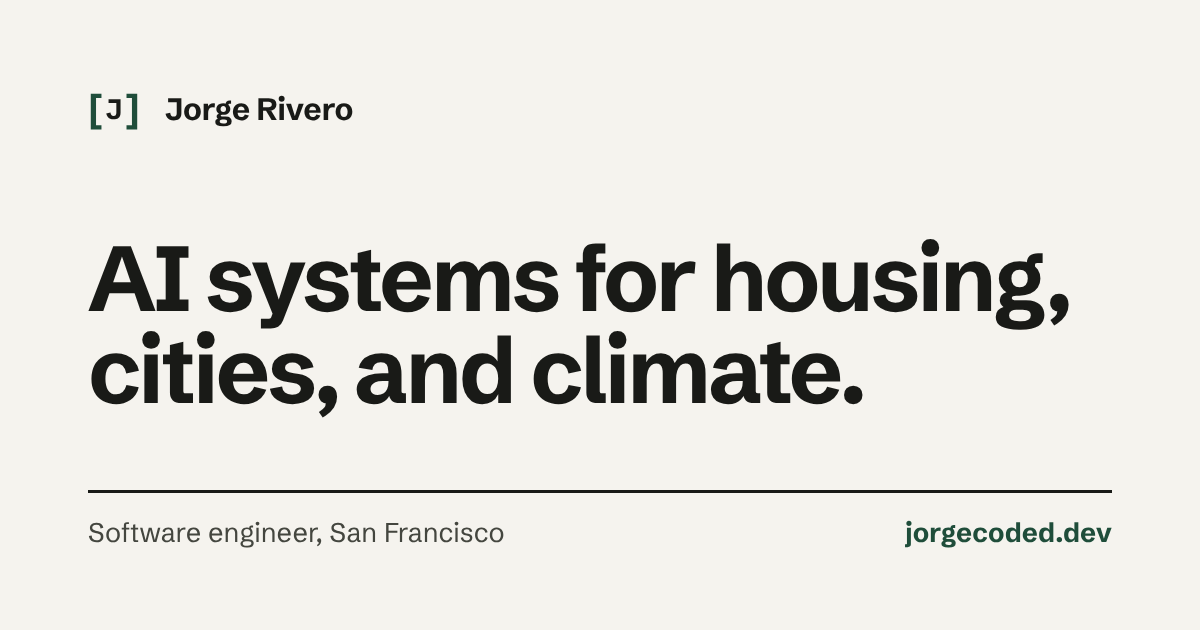
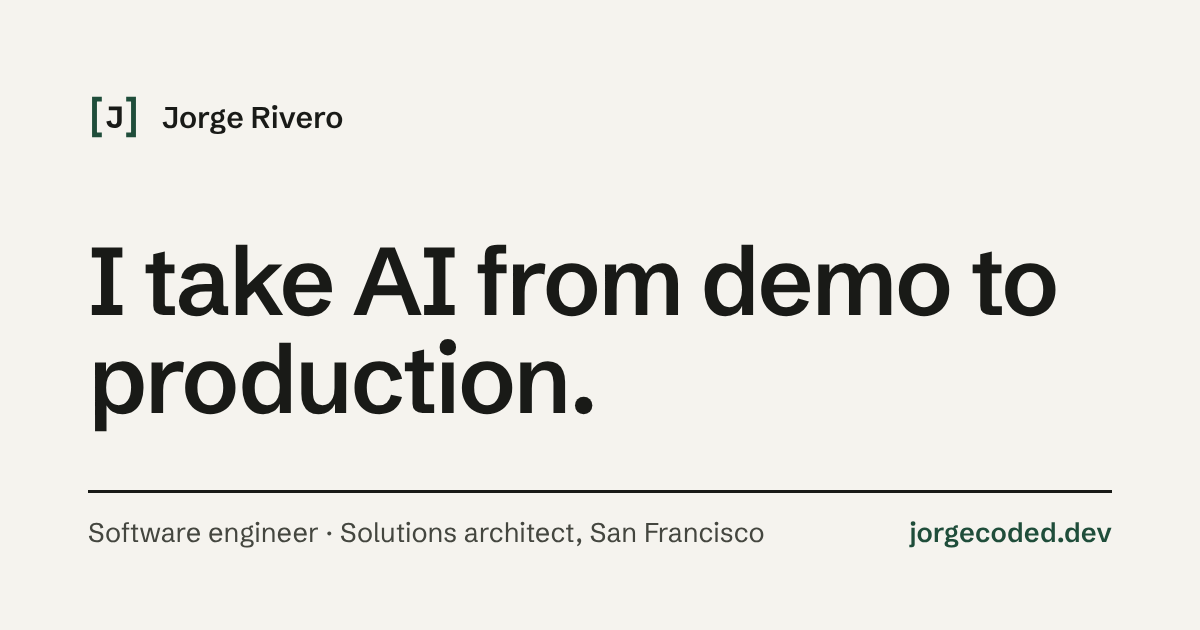
New tagline, add solutions architect title, remove Selected Work
- Headline: I take AI from demo to production.
- Role line: Software engineer · Solutions architect
- Remove Selected Work section and Work nav link
- Unlink RespondIt case studies from sitemap and Aura page (pages stay live)
- Regenerate OG image and update meta descriptions

Claude-Session: https://claude.ai/code/session_01LG74G7z5DmbHthHnbbfct1

diff --git a/public/index.html b/public/index.html
@@ -4,11 +4,11 @@
   <meta charset="utf-8">
   <meta name="viewport" content="width=device-width, initial-scale=1">
   <title>Jorge Rivero, Software Engineer in San Francisco</title>
-  <meta name="description" content="Software engineer in San Francisco building AI systems for housing, cities, and climate. Most recently a Solutions Architect at RespondIt AI.">
+  <meta name="description" content="Software engineer and solutions architect in San Francisco. I take AI from demo to production. Most recently a Solutions Architect at RespondIt AI.">
   <link rel="canonical" href="https://jorgecoded.dev/">
   <meta property="og:type" content="website">
   <meta property="og:title" content="Jorge Rivero, Software Engineer">
-  <meta property="og:description" content="Software engineer in San Francisco building AI systems for housing, cities, and climate.">
+  <meta property="og:description" content="Software engineer and solutions architect in San Francisco. I take AI from demo to production.">
   <meta property="og:url" content="https://jorgecoded.dev/">
   <meta name="twitter:card" content="summary_large_image">
   <meta name="theme-color" content="#f5f3ee" media="(prefers-color-scheme: light)">
@@ -19,7 +19,7 @@
   <meta property="og:image" content="https://jorgecoded.dev/assets/og-image.png">
   <meta property="og:image:width" content="1200">
   <meta property="og:image:height" content="630">
-  <meta property="og:image:alt" content="Jorge Rivero, software engineer: AI systems for housing, cities, and climate.">
+  <meta property="og:image:alt" content="Jorge Rivero, software engineer and solutions architect: I take AI from demo to production.">
   <link rel="preconnect" href="https://fonts.googleapis.com">
   <link rel="preconnect" href="https://fonts.gstatic.com" crossorigin>
   <link href="https://fonts.googleapis.com/css2?family=Schibsted+Grotesk:wght@400;500;600&display=swap" rel="stylesheet">
@@ -32,7 +32,6 @@
       <a class="name" href="/"><svg class="mark" viewBox="0 0 64 64" aria-hidden="true"><path d="M17 10H8v44h9M47 10h9v44h-9" stroke="var(--forest)" stroke-width="6" fill="none"/><g fill="var(--ink)"><path transform="translate(21.925 45) scale(0.01806 -0.01806)" d="M582 -26Q428 -26 318.0 20.0Q208 66 138.0 162.5Q68 259 33 409L342 475Q363 351 413.0 288.5Q463 226 573 226Q678 226 726.0 283.0Q774 340 774 452V1179H204V1440H1083V452Q1083 310 1040.5 217.0Q998 124 926.0 70.5Q854 17 765.0 -4.5Q676 -26 582 -26Z"/></g></svg><span>Jorge Rivero</span></a>
       <div class="right">
       <ul>
-        <li><a href="#work">Work</a></li>
         <li><a href="#projects">Projects</a></li>
         <li><a href="#experience">Experience</a></li>
         <li><a href="/resume.pdf">Resume</a></li>
@@ -45,8 +44,8 @@
   <main class="frame">
     <header class="hero">
       <div class="hero-inner">
-        <p class="role-line">Software engineer, San Francisco</p>
-        <h1>AI systems for housing, cities, and climate.</h1>
+        <p class="role-line">Software engineer · Solutions architect, <span style="white-space:nowrap">San Francisco</span></p>
+        <h1>I take AI from demo to production.</h1>
       </div>
       <a class="cue" href="#intro" aria-label="Scroll to more">
         <svg viewBox="0 0 24 24" aria-hidden="true"><path d="M12 4v15M5 12l7 7 7-7" fill="none" stroke="currentColor" stroke-width="1.6" stroke-linecap="round" stroke-linejoin="round"/></svg>
@@ -79,57 +78,6 @@
         </div>
       </div>
       <p class="figures-note">Each of these numbers has a source. Tap one to see it.</p>
-    </section>
-
-    <section class="band reveal" id="work" aria-labelledby="work-h">
-      <div class="rail"><h2 id="work-h">Selected work</h2></div>
-      <div class="body">
-        <ul class="exhibits">
-          <li class="exhibit">
-            <a href="/work/phantom-work-orders.html">
-              <div>
-                <h3>Phantom work orders</h3>
-                <p>An AI agent told callers their repair was booked. About 1 in 10 never reached the property system. I traced why and designed the fix.</p>
-                <p class="where">RespondIt AI, 2026</p>
-                <span class="read">Read the case study</span>
-              </div>
-              <div class="thumb" aria-hidden="true">
-                <svg viewBox="0 0 260 150">
-                  <rect class="d-box" x="95" y="8" width="70" height="26" rx="4"/>
-                  <path class="d-line" d="M130,34 V52"/>
-                  <rect class="d-box" x="95" y="52" width="70" height="26" rx="4"/>
-                  <path class="d-line" d="M130,78 V94 H62 V110"/>
-                  <path class="d-line-accent" d="M130,94 H198 V110"/>
-                  <rect class="d-box-fail" x="22" y="110" width="80" height="30" rx="4"/>
-                  <rect class="d-box-accent" x="158" y="110" width="80" height="30" rx="4"/>
-                  <path class="d-line-fail" d="M30,110 V21 H93"/>
-                </svg>
-              </div>
-            </a>
-          </li>
-          <li class="exhibit">
-            <a href="/work/guarded-reporting.html">
-              <div>
-                <h3>Reports that can't make things up</h3>
-                <p>LLM-drafted client reports started inventing figures and causes. I built a reporting system where every number has to trace back to the data.</p>
-                <p class="where">RespondIt AI, 2025 to 2026</p>
-                <span class="read">Read the case study</span>
-              </div>
-              <div class="thumb" aria-hidden="true">
-                <svg viewBox="0 0 260 150">
-                  <rect class="d-box" x="60" y="6" width="120" height="18" rx="3"/>
-                  <rect class="d-box" x="60" y="30" width="120" height="18" rx="3"/>
-                  <rect class="d-box" x="60" y="54" width="120" height="18" rx="3"/>
-                  <rect class="d-box-accent" x="60" y="78" width="120" height="18" rx="3"/>
-                  <rect class="d-box-accent" x="60" y="102" width="120" height="18" rx="3"/>
-                  <rect class="d-box" x="60" y="126" width="120" height="18" rx="3"/>
-                  <path class="d-line-fail" d="M180,87 H214 M180,111 H214 V63 H182"/>
-                </svg>
-              </div>
-            </a>
-          </li>
-        </ul>
-      </div>
     </section>
 
     <section class="band reveal" id="projects" aria-labelledby="projects-h">

diff --git a/public/work/aura.html b/public/work/aura.html
@@ -16,7 +16,7 @@
   <meta property="og:image" content="https://jorgecoded.dev/assets/og-image.png">
   <meta property="og:image:width" content="1200">
   <meta property="og:image:height" content="630">
-  <meta property="og:image:alt" content="Jorge Rivero, software engineer: AI systems for housing, cities, and climate.">
+  <meta property="og:image:alt" content="Jorge Rivero, software engineer and solutions architect: I take AI from demo to production.">
   <link rel="preconnect" href="https://fonts.googleapis.com">
   <link rel="preconnect" href="https://fonts.gstatic.com" crossorigin>
   <link href="https://fonts.googleapis.com/css2?family=Schibsted+Grotesk:wght@400;500;600&display=swap" rel="stylesheet">
@@ -116,9 +116,9 @@
       </section>
 
       <nav class="next" aria-label="Back to start">
-        <a href="/work/phantom-work-orders.html">
-          <span class="label">Back to the first case study</span>
-          <h3>Phantom work orders</h3>
+        <a href="/">
+          <span class="label">Back to the homepage</span>
+          <h3>Jorge Rivero</h3>
         </a>
       </nav>
     </article>

diff --git a/public/work/guarded-reporting.html b/public/work/guarded-reporting.html
@@ -16,7 +16,7 @@
   <meta property="og:image" content="https://jorgecoded.dev/assets/og-image.png">
   <meta property="og:image:width" content="1200">
   <meta property="og:image:height" content="630">
-  <meta property="og:image:alt" content="Jorge Rivero, software engineer: AI systems for housing, cities, and climate.">
+  <meta property="og:image:alt" content="Jorge Rivero, software engineer and solutions architect: I take AI from demo to production.">
   <link rel="preconnect" href="https://fonts.googleapis.com">
   <link rel="preconnect" href="https://fonts.gstatic.com" crossorigin>
   <link href="https://fonts.googleapis.com/css2?family=Schibsted+Grotesk:wght@400;500;600&display=swap" rel="stylesheet">

diff --git a/public/work/phantom-work-orders.html b/public/work/phantom-work-orders.html
@@ -16,7 +16,7 @@
   <meta property="og:image" content="https://jorgecoded.dev/assets/og-image.png">
   <meta property="og:image:width" content="1200">
   <meta property="og:image:height" content="630">
-  <meta property="og:image:alt" content="Jorge Rivero, software engineer: AI systems for housing, cities, and climate.">
+  <meta property="og:image:alt" content="Jorge Rivero, software engineer and solutions architect: I take AI from demo to production.">
   <link rel="preconnect" href="https://fonts.googleapis.com">
   <link rel="preconnect" href="https://fonts.gstatic.com" crossorigin>
   <link href="https://fonts.googleapis.com/css2?family=Schibsted+Grotesk:wght@400;500;600&display=swap" rel="stylesheet">
